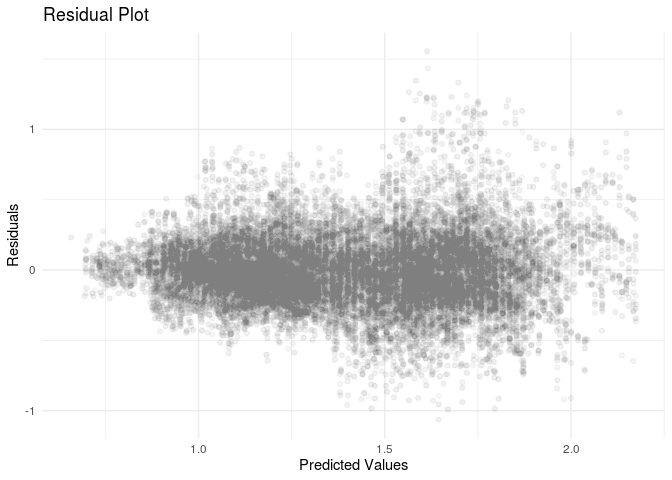
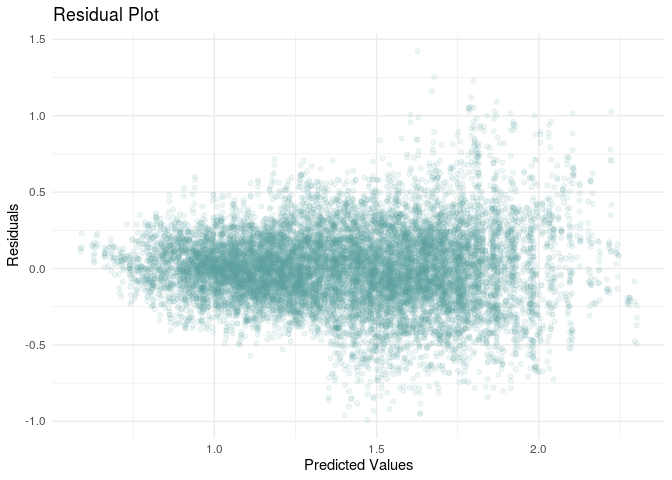
updated with new wrangled data

diff --git a/src/hypothesis_test.md b/src/hypothesis_test.md
@@ -10,12 +10,19 @@ interpret the p-values to determine which features are significant.
 The features we will be testing are:
 
   - total\_volume: total volume of avocados sold
+  - PLU\_4046: number of of avocados with a price lookup code of 4046
+    (small avocado) sold
+  - PLU\_4225: number of of avocados with a price lookup code of 4225
+    (large avocado) sold
+  - PLU\_4770: number of of avocados with a price lookup code of 4770
+    (x-large avocado) sold
   - total\_bags: total number of bags of avocados sold
+  - small\_bags: number of small bags of avocados sold
+  - large\_bags: number of large bags of avocados sold
+  - xlarge\_bags: number of x-large bags of avocados sold
   - type: type of avocado sold (conventional or organic)
+  - year: year avocado was sold in
   - region: U.S. state avocado was sold in
-  - PLU: price lookup code of avocado (4046 small avocado, 4225 large
-    avocado, 4770 x-large avocado)
-  - bag\_size: size of bag of avocados sold (small, large, x-large)
   - month: month avocado was sold in
 
 The target is:
@@ -38,15 +45,20 @@ model is appropriate in this case.
     ## Analysis of Variance Table
     ## 
     ## Response: average_price
-    ##                  Df Sum Sq Mean Sq    F value Pr(>F)    
-    ## total_volume      1  796.4   796.4 1.1540e+04 <2e-16 ***
-    ## total_bags        1   21.9    21.9 3.1710e+02 <2e-16 ***
-    ## type              1 7361.1  7361.1 1.0667e+05 <2e-16 ***
-    ## region           53 3521.0    66.4 9.6273e+02 <2e-16 ***
-    ## PLU               2    0.1     0.1 7.8920e-01 0.4542    
-    ## bag_size          2    0.0     0.0 1.2130e-01 0.8857    
-    ## month             1  562.4   562.4 8.1498e+03 <2e-16 ***
-    ## Residuals    131333 9062.8     0.1                      
+    ##                 Df Sum Sq Mean Sq    F value    Pr(>F)    
+    ## total_volume     1  87.00   87.00  1439.9970 < 2.2e-16 ***
+    ## PLU_4046         1  26.38   26.38   436.6751 < 2.2e-16 ***
+    ## PLU_4225         1   0.02    0.02     0.3029 0.5820806    
+    ## PLU_4770         1   6.47    6.47   107.1677 < 2.2e-16 ***
+    ## total_bags       1   0.91    0.91    15.0062 0.0001076 ***
+    ## small_bags       1   1.80    1.80    29.8261 4.803e-08 ***
+    ## large_bags       1   3.86    3.86    63.9264 1.388e-15 ***
+    ## xlarge_bags      1   0.01    0.01     0.1708 0.6794506    
+    ## type             1 814.61  814.61 13483.9172 < 2.2e-16 ***
+    ## year             1  18.50   18.50   306.1424 < 2.2e-16 ***
+    ## region          53 360.61    6.80   112.6231 < 2.2e-16 ***
+    ## month           11 159.37   14.49   239.8181 < 2.2e-16 ***
+    ## Residuals    14526 877.57    0.06                         
     ## ---
     ## Signif. codes:  0 '***' 0.001 '**' 0.01 '*' 0.05 '.' 0.1 ' ' 1
 
@@ -54,10 +66,15 @@ At a significance level of 0.05, it appears that the following features
 are significant as their p-values are less than the significance level:
 
   - total\_volume
+  - PLU\_4046
+  - PLU\_4770
   - total\_bags
+  - small\_bags
+  - large\_bags
   - type
-  - month
+  - year
   - region
+  - month
 
 However, we should be cautious not to use the p-value significance as a
 stand alone measure to determine if these features are correlated with
